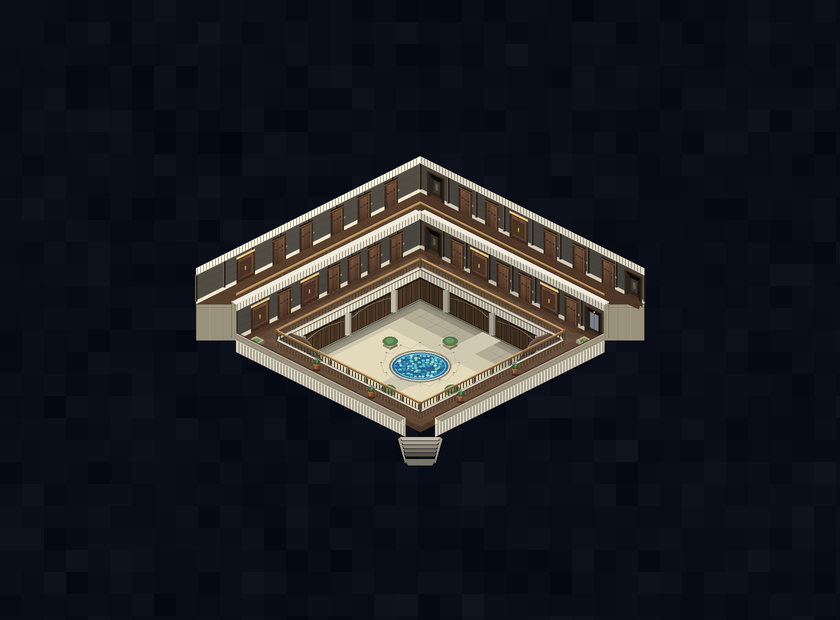
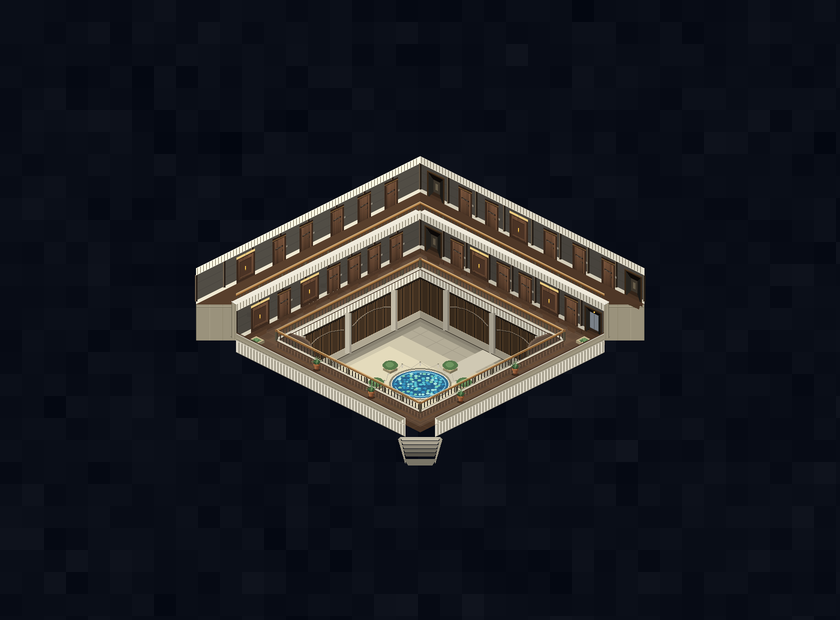
Capitol: the courtyard is a double-height storey, not the shortest one
DROP was 64 against 72px office storeys, so the ground level read
SHORTER than a floor of offices and the section looked like three
equal decks (user: "the two floors are very tall in comparison to the
rotunda; the rotunda floor should look much taller because it is").
It is 100 now — the real court is a double-height arcade whose piers
run to the underside of the gallery slab.

100 is a measured ceiling, not a taste call. The courtyard floor
slides DOWN as the court deepens, so our own slab starts cutting the
floor medallion: the bound is hypot(62/288, 32/144) + (DROP-12)/144
<= 1 against the well diamond. 108 was baked first and the medallion
came out sliced and jammed against the near rail.

Everything standing on that floor had to be re-placed, because a deep
court hides its own near half under the gallery. The kukui pair that
stood below the medallion now flanks it, the chain ring came in to
72x37, and the arcade's arch head and rise are fractions of DROP
(0.47 / 0.11) instead of a fixed 30/7 under the slab, which bunched
the heads at the top of a tall wall with a blank field under them. A
pale stone plinth along the wall foot is what says that wall meets a
floor. CAP_V 9.

Changed region(s): [[0.3714, 0.4903, 0.619, 0.6435]]

diff --git a/site/js/main.js b/site/js/main.js
@@ -27,7 +27,7 @@ const MAP_V = 8;
    map/capitol.json come out of ONE run of tools/render_capitol.py and
    are only valid as a set (hotspot px are baked against the image).
    Hand-bumped, same rule as MAP_V. */
-const CAP_V = 8;
+const CAP_V = 9;
 /* Same rule for the House Finance office bake (tools/render_office.py:
    office_finance.png + map/office_finance.json). */
 const OFF_V = 2;

diff --git a/site/index.html b/site/index.html
@@ -236,6 +236,6 @@
   <!-- UI sound: synthesised at runtime, no audio files. Loaded
        BEFORE main.js, which calls window.SFX from its handlers. -->
   <script src="js/sfx.js?v=20260819125954"></script>
-  <script src="js/main.js?v=20260824134836"></script>
+  <script src="js/main.js?v=20260824141206"></script>
 </body>
 </html>

diff --git a/tools/render_capitol.py b/tools/render_capitol.py
@@ -92,8 +92,24 @@ A_OUT = 11.5               # ring outer diamond half-size (iso units) —
                            # the walkway is a NARROW balcony (user's
                            # call), not a wide deck
 A_IN = 9                   # the rotunda well
-DROP = 64                  # the player stands on a LOW gallery just
-                           # above the chamber level
+DROP = 100                 # COURTYARD STOREY HEIGHT — the drop from
+                           # the gallery floor to the courtyard, and
+                           # deliberately MUCH TALLER than the 72px
+                           # office storeys above it (user, 2026-08-24:
+                           # "the two floors are very tall in
+                           # comparison to the rotunda; the rotunda
+                           # floor should look much taller because it
+                           # is"). It was 64 — SHORTER than a storey —
+                           # which read as three equal floors and made
+                           # the whole section look squashed. The real
+                           # court is a double-height arcade: the piers
+                           # run a full two storeys to the underside of
+                           # the gallery slab. Everything in the well
+                           # is expressed against DROP, so this is the
+                           # one number; the ceiling on it is the HOLE,
+                           # since the courtyard floor slides DOWN as
+                           # the court deepens and our own slab starts
+                           # eating the medallion past ~110.
 # ---- the THIRD level (2026-08-24, user's call), Senate territory.
 # It is RECESSED, and that is the entire design. A flush stack was
 # drawn 2026-08-22 and rolled back the same day because two rows of
@@ -365,17 +381,28 @@ def paint_well(img):
             b = lerp(e0, e1, t)
             d.line([(b[0], b[1] + 22), (b[0], b[1] + DROP - 4)],
                    fill=shade(hx("#5f452c"), f), width=2)
+        # stone PLINTH along the foot of the court wall. The taller
+        # storey left a big flat dark field under the arches with
+        # nothing to read against; the base band is what tells you the
+        # wall meets a floor (and it is in the panorama).
+        q(DROP - 15, DROP - 1, shade(hx("#b0a893"), f))
+        d.line([up(e0, -DROP + 15), up(e1, -DROP + 15)],
+               fill=shade(hx("#cdc5ae"), f), width=1)
         d.line([up(e0, -DROP + 2), up(e1, -DROP + 2)],
                fill=shade(COURT, f), width=2)
         # arched arcade heads between the piers (gallery-corner photo:
         # the courtyard level reads as arches in the lava-brick wall)
+        # arch head and rise are FRACTIONS of the storey — a fixed
+        # 30/7 under the slab left the heads bunched at the top of a
+        # tall court with a blank wall hanging under them
+        a_y, a_r = round(DROP * 0.47), round(DROP * 0.11)
         for t0, t1 in ((0.21, 0.47), (0.53, 0.79)):
             pts = []
             for k in range(13):
                 tt = t0 + (t1 - t0) * k / 12
                 b = lerp(e0, e1, tt)
                 s = 2 * k / 12 - 1
-                pts.append((b[0], b[1] + 30 - round(7 * (1 - s * s))))
+                pts.append((b[0], b[1] + a_y - round(a_r * (1 - s * s))))
             d.line(pts, fill=shade(hx("#8a7a66"), f), width=2)
             d.line([(px_, py_ + 2) for px_, py_ in pts],
                    fill=shade(hx("#2c241c"), f), width=1)
@@ -399,7 +426,7 @@ def paint_well(img):
     ring = []
     for a in range(12):
         ang = a * math.pi / 6
-        ring.append((mx + math.cos(ang) * 78, my + math.sin(ang) * 40))
+        ring.append((mx + math.cos(ang) * 72, my + math.sin(ang) * 37))
     for i, (px_, py_) in enumerate(ring):
         nx, ny = ring[(i + 1) % 12]
         sag = ((px_ + nx) / 2, (py_ + ny) / 2 + 3)
@@ -411,8 +438,13 @@ def paint_well(img):
                     fill=hx("#8f8974"))
 
     # four kukui canopies from above, flanking the breezeway
-    for x, y in ((CX - 60, CY + DROP - 62), (CX + 60, CY + DROP - 62),
-                 (CX - 64, CY + DROP + 34), (CX + 64, CY + DROP + 34)):
+    # Two up-court, two flanking the medallion. The pair that used to
+    # stand BELOW it is gone: a deep court hides its own near half
+    # under our slab, and anything down there is sliced by the well
+    # edge. Flanking keeps four trees on the visible floor and keeps
+    # the group symmetrical about the medallion.
+    for x, y in ((CX - 60, CY + DROP - 50), (CX + 60, CY + DROP - 50),
+                 (CX - 88, CY + DROP - 16), (CX + 88, CY + DROP - 16)):
         st = hx("#c9b88f")
         d.polygon([(x - 14, y + 6), (x, y - 1), (x + 14, y + 6),
                    (x, y + 13)], fill=st)

diff --git a/CLAUDE.md b/CLAUDE.md
@@ -2016,6 +2016,32 @@ user's call).
   - No form mottle on purpose: most distant thing in the room, and
     skipping it keeps the level off the shared `rng`, so adding a
     storey cannot reshuffle the level below's wall texture.
+  - **THE COURTYARD STOREY IS THE TALLEST ONE, and `DROP` is the
+    number** (user, 2026-08-24: "the two floors are very tall in
+    comparison to the rotunda; the rotunda floor should look much
+    taller because it is"). DROP was 64 against 72px office storeys —
+    the ground level read SHORTER than a floor of offices, so the
+    section looked like three equal decks and the whole room read
+    squashed. It is 100 now: the real court is a double-height
+    arcade whose piers run to the underside of the gallery slab.
+    Everything in the well is expressed against DROP, so it is one
+    edit — but two things ride on it:
+    - **The ceiling on DROP is the WELL, not taste.** The courtyard
+      floor slides DOWN as the court deepens, so our own slab starts
+      cutting the floor medallion — the composition's focal object.
+      The bound is `hypot(62/288, 32/144) + (DROP-12)/144 <= 1`
+      against the well diamond, i.e. ~100. At 108 the medallion was
+      sliced and sat jammed against the near rail. Deeper than the
+      bound means giving up the medallion; that is the trade.
+    - **Anything standing ON the courtyard floor has to be re-placed,
+      because a deep court hides its own near half** under the
+      gallery slab. The kukui pair that used to stand below the
+      medallion now FLANKS it (the far pair is unmoved), the chain
+      ring came in to 72x37, and the arcade's arch head and rise are
+      FRACTIONS of DROP (0.47 / 0.11) instead of a fixed 30/7 under
+      the slab, or the heads bunch at the top of a tall wall with a
+      blank field hanging under them. A pale stone PLINTH along the
+      wall foot is what tells you that tall dark wall meets a floor.
   - **`CY` is framing, not geometry.** The storey grows the room
     UPWARD only, so the content centre drifted 90px above the frame's
     and the room hung high in the viewport with dead space under it;
